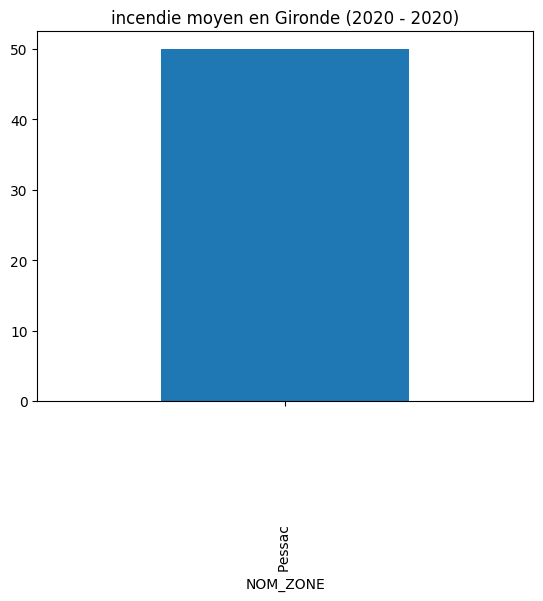
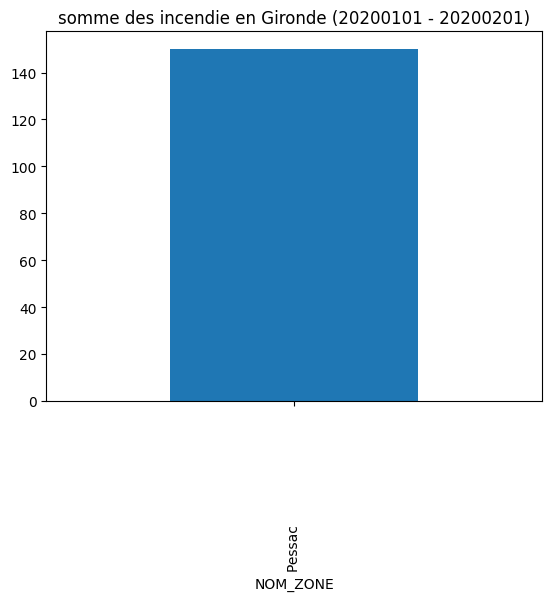
graphes avec agregations

diff --git a/requetes/requete.py b/requetes/requete.py
@@ -13,54 +13,7 @@ database = "MLR12345"
 engine = sa.create_engine(f'mssql+pymssql://{user}:{psw}@{server}/{database}')
 cnxn = engine.connect()
 
-def generer_graphe_barres(annee_debut, annee_fin, categorie_risque, echelle):
-    if echelle == 'region':
-        colonne_cible = 'Nouvelle-Aquitaine' 
-        jointure_sup = ""
-    elif echelle == 'departement':
-        colonne_cible = "dpt.DPT_NOM"
-        jointure_sup = "JOIN T_DEPARTEMENT_DPT dpt ON c.DPT_ID = dpt.DPT_ID"
-    else:
-        colonne_cible = "c.CMN_NOM"
-        jointure_sup = ""
-
-    requete_sql = f"""
-        SELECT {colonne_cible} AS NOM_ZONE, d.DNN_VALEUR
-        FROM T_DONNEES_DNN d
-        JOIN situé s ON d.DNN_ID = s.DNN_ID
-        JOIN T_COMMUNE_CMN c ON s.CMN_ID = c.CMN_ID
-        {jointure_sup}
-        JOIN déroulé der ON d.DNN_ID = der.DNN_ID
-        JOIN T_DATEJOURE_DTJ dtj ON der.ID_DTJ = dtj.ID_DTJ
-        JOIN possède p ON d.DNN_ID = p.DNN_ID
-        JOIN T_CATEGORIE_CTG cat ON p.CTG_ID = cat.CTG_ID
-        WHERE cat.CTG_NOM = '{categorie_risque}'
-        AND YEAR(dtj.DTJ_DATE_DEBUT) >= {annee_debut}
-        AND YEAR(dtj.DTJ_DATE_FIN) <= {annee_fin}
-    """
-
-    df_graphes = pd.read_sql(requete_sql, cnxn, coerce_float=False)
-    df_final = df_graphes.groupby('NOM_ZONE').mean().reset_index()
-
-    ax = df_final.plot(
-        kind='bar', 
-        x='NOM_ZONE', 
-        y='DNN_VALEUR', 
-        title=f'{categorie_risque} moyen en {echelle} ({annee_debut} - {annee_fin})',
-        legend=False
-    )
-    
-    nom_fichier = f'{categorie_risque}_{echelle}.png'
-    plt.savefig(nom_fichier, bbox_inches='tight')
-    plt.show()
-
-    return nom_fichier
-
-generer_graphe_barres(2020,2020,'incendie','Gironde')
-plt.show()
-
-
-def generer_graphe_barres(annee_debut, annee_fin, categorie_risque, echelle):
+def generer_graphe_barres(date_debut, date_fin, categorie_risque, echelle, agregation):
     if echelle == 'region':
         colonne_cible = 'Nouvelle-Aquitaine' 
         jointure_sup = ""
@@ -82,18 +35,33 @@ def generer_graphe_barres(annee_debut, annee_fin, categorie_risque, echelle):
         JOIN possède p ON d.DNN_ID = p.DNN_ID
         JOIN T_CATEGORIE_CTG cat ON p.CTG_ID = cat.CTG_ID
         WHERE cat.CTG_NOM = '{categorie_risque}'
-        AND YEAR(dtj.DTJ_DATE_DEBUT) >= {annee_debut}
-        AND YEAR(dtj.DTJ_DATE_FIN) <= {annee_fin}
+        AND dtj.DTJ_DATE_DEBUT >= '{date_debut}'
+        AND dtj.DTJ_DATE_FIN <= '{date_fin}'
     """
 
     df_graphes = pd.read_sql(requete_sql, cnxn, coerce_float=False)
-    df_final = df_graphes.groupby('NOM_ZONE').mean().reset_index()
 
+    if agregation == 'avg':
+        df_final = df_graphes.groupby('NOM_ZONE').mean().reset_index()
+        titre = 'moyenne'
+    elif agregation == 'max':
+        df_final = df_graphes.groupby('NOM_ZONE').max().reset_index()
+        titre = 'maximum'
+    elif agregation == 'min':
+        df_final = df_graphes.groupby('NOM_ZONE').min().reset_index()
+        titre = 'minimum'
+    elif agregation == 'sum':
+        df_final = df_graphes.groupby('NOM_ZONE').sum().reset_index()
+        titre = 'somme'
+    elif agregation == 'count':
+        df_final = df_graphes.groupby('NOM_ZONE').count().reset_index()
+        titre = 'nombre'
+    
     ax = df_final.plot(
         kind='bar', 
         x='NOM_ZONE', 
         y='DNN_VALEUR', 
-        title=f'{categorie_risque} moyen en {echelle} ({annee_debut} - {annee_fin})',
+        title=f'{titre} des {categorie_risque} en {echelle} ({date_debut} - {date_fin})',
         legend=False
     )
     
@@ -103,6 +71,9 @@ def generer_graphe_barres(annee_debut, annee_fin, categorie_risque, echelle):
 
     return nom_fichier
 
-generer_graphe_barres(2020,2020,'incendie','Gironde')
+generer_graphe_barres('20200101','20200201','incendie','Gironde', 'sum')
 plt.show()
+
+
+
 
